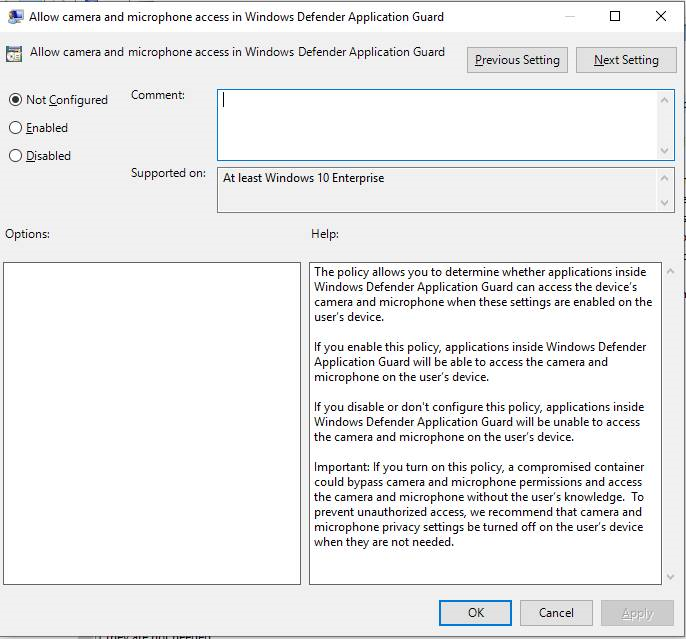
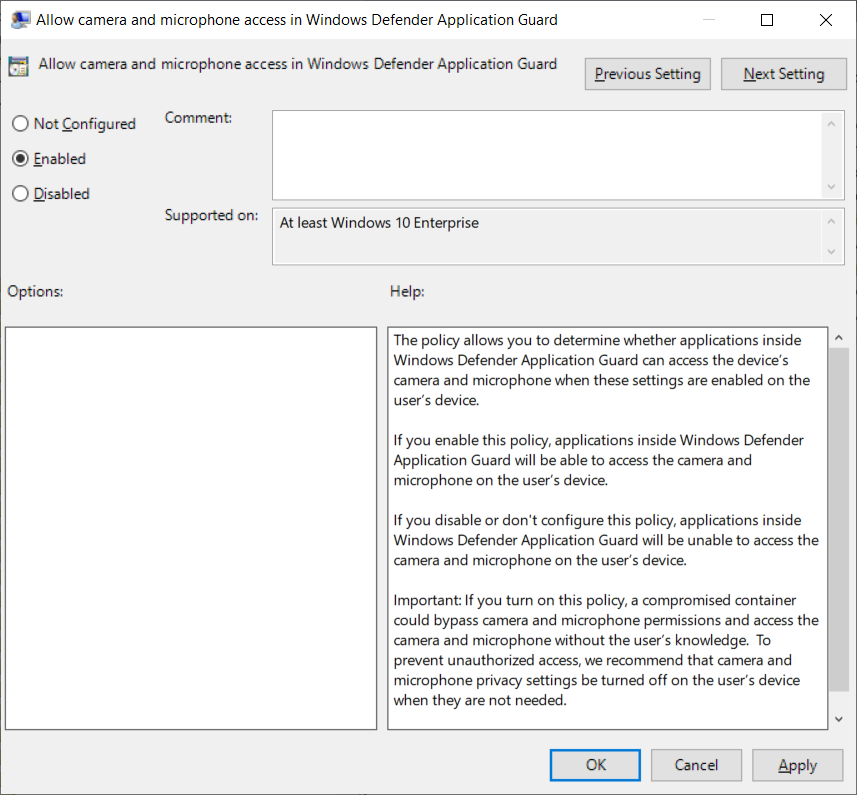
added new settings for 1809

Changed region(s): [[0.0, 0.0, 1.0, 1.0], [0.0, 0.1487, 0.1531, 0.2676], [0.1837, 0.1189, 0.2755, 0.1784]]

diff --git a/windows/security/threat-protection/windows-defender-application-guard/test-scenarios-wd-app-guard.md b/windows/security/threat-protection/windows-defender-application-guard/test-scenarios-wd-app-guard.md
@@ -8,7 +8,7 @@ ms.pagetype: security
 ms.localizationpriority: medium
 author: justinha
 ms.author: justinha
-ms.date: 10/19/2017
+ms.date: 10/16/2018
 ---
 
 # Application Guard testing scenarios
@@ -66,9 +66,9 @@ Before you can use Application Guard in enterprise mode, you must install Window
 
     ![Group Policy editor with Neutral resources setting](images/appguard-gp-network-isolation-neutral.png)
 
-4.	Go to the **Administrative Templates\System\Windows Components\Windows Defender Application Guard\Turn on Windows Defender Application Guard in Enterprise Mode** setting.
+4.	Go to the **Computer Configuration\Administrative Templates\Windows Components\Windows Defender Application Guard\Turn on Windows Defender Application Guard in Enterprise Mode** setting.
 
-5.	Click **Enabled**.
+5.	Click **Enabled** and click **OK**.
 
     ![Group Policy editor with Turn On/Off setting](images/appguard-gp-turn-on.png)
 
@@ -104,10 +104,11 @@ You have the option to change each of these settings to work with your enterpris
 - Windows 10 Enterpise edition, version 1709 or higher
 - Windows 10 Professional edition, version 1803
 
-**To change the copy and paste options**
-1.	Go to the **Administrative Templates\System\Windows Components\Windows Defender Application Guard\Configure Windows Defender Application Guard clipboard settings**.
+#### Copy and paste options
 
-2.	Click **Enabled**.
+1.	Go to the **Computer Configuration\Administrative Templates\Windows Components\Windows Defender Application Guard\Configure Windows Defender Application Guard clipboard settings**.
+
+2.	Click **Enabled** and click **OK**.
  
     ![Group Policy editor clipboard options](images/appguard-gp-clipboard.png)
 
@@ -129,10 +130,11 @@ You have the option to change each of these settings to work with your enterpris
 
 5.	Click **OK**.
 
-**To change the print options**
-1.	Go to the **Administrative Templates\System\Windows Components\Windows Defender Application Guard\Configure Windows Defender Application Guard print** settings.
+#### Print options
 
-2.	Click **Enabled**.
+1.	Go to the **Computer Configuration\Administrative Templates\Windows Components\Windows Defender Application Guard\Configure Windows Defender Application Guard print** settings.
+
+2.	Click **Enabled** and click **OK**.
 
     ![Group Policy editor Print options](images/appguard-gp-print.png)
 
@@ -140,10 +142,11 @@ You have the option to change each of these settings to work with your enterpris
 
 4. Click **OK**.
 
-**To change the data persistence options**
-1.	Go to the **Administrative Templates\System\Windows Components\Windows Defender Application Guard\Allow data persistence for Windows Defender Application Guard** setting.
+#### Data persistence options
 
-2.	Click **Enabled**.
+1.	Go to the **Computer Configuration\Administrative Templates\Windows Components\Windows Defender Application Guard\Allow data persistence for Windows Defender Application Guard** setting.
+
+2.	Click **Enabled** and click **OK**.
 
     ![Group Policy editor Data Persistence options](images/appguard-gp-persistence.png)
  
@@ -164,10 +167,11 @@ You have the option to change each of these settings to work with your enterpris
 - Windows 10 Enterpise edition, version 1803
 - Windows 10 Professional edition, version 1803
 
-**To change the download options**
-1.	Go to the **Administrative Templates\System\Windows Components\Windows Defender Application Guard\Allow files to download and save to the host operating system from Windows Defender Application Guard** setting.
+#### Download options
 
-2.	Click **Enabled**.
+1.	Go to the **Computer Configuration\Administrative Templates\Windows Components\Windows Defender Application Guard\Allow files to download and save to the host operating system from Windows Defender Application Guard** setting.
+
+2.	Click **Enabled** and click **OK**.
 
     ![Group Policy editor Download options](images/appguard-gp-download.png)
  
@@ -177,10 +181,11 @@ You have the option to change each of these settings to work with your enterpris
 
 5.	Check to see the file has been downloaded into This PC > Downloads > Untrusted files.
 
-**To change hardware acceleration options**
-1.	Go to the **Administrative Templates\System\Windows Components\Windows Defender Application Guard\Allow hardware-accelerated rendering for Windows Defender Application Guard** setting.
+#### Hardware acceleration options
 
-2.	Click **Enabled**.
+1.	Go to the **Computer Configuration\Administrative Templates\Windows Components\Windows Defender Application Guard\Allow hardware-accelerated rendering for Windows Defender Application Guard** setting.
+
+2.	Click **Enabled** and click **OK**.
 
     ![Group Policy editor hardware acceleration options](images/appguard-gp-vgpu.png)
  
@@ -189,4 +194,46 @@ You have the option to change each of these settings to work with your enterpris
 4.	Once you have fully enabled this experimental feature, open Microsoft Edge and browse to an untrusted, but safe URL with video, 3D, or other graphics-intensive content. The website opens in an isolated session. 
 
 5.	Assess the visual experience and battery performance. 
+
+**Applies to:**
+- Windows 10 Enterpise edition, version 1809
+- Windows 10 Professional edition, version 1809
+
+#### File trust options
+
+1.	Go to the **Computer Configuration\Administrative Templates\Windows Components\Windows Defender Application Guard\Allow users to trust files that open in Windows Defender Application Guard** setting.
+
+2.	Click **Enabled**, set **Options** to 2, and click **OK**.
+
+    ![Group Policy editor Download options](images/appguard-gp-allow-users-to-trust-files-that-open-in-appguard.png)
+ 
+3.	Log out and back on to your device, opening Microsoft Edge in Application Guard again.
+
+4.	Open a file in Edge, such an Office 365 file. 
+
+5.	Check to see that an antivirus scan completed before the file was opened.
+
+#### Camera and microphone options
+
+1.	Go to the **Computer Configuration\Administrative Templates\Windows Components\Windows Defender Application Guard\Allow camera and microphone access in Windows Defender Application Guard** setting.
+
+2.	Click **Enabled** and click **OK**.
+
+    ![Group Policy editor Download options](images/appguard-gp-allow-camera-and-mic.png)
+ 
+3.	Log out and back on to your device, opening Microsoft Edge in Application Guard again.
+
+4.	Open an application with video or audio capability in Edge. 
+
+5.	Check that the camera and microphone work as expected.
+
+#### Root certificate sharing options
+
+1.	Go to the **Computer Configuration\Administrative Templates\Windows Components\Windows Defender Application Guard\Allow Windows Defender Application Guard to use Root Certificate Authorities from the user's device** setting.
+
+2.	Click **Enabled**, copy the thumbprint of each certificate to share, separated by a comma, and click **OK**.
+
+    ![Group Policy editor Download options](images/appguard-gp-allow-root-certificates.png)
+ 
+3.	Log out and back on to your device, opening Microsoft Edge in Application Guard again.
 
